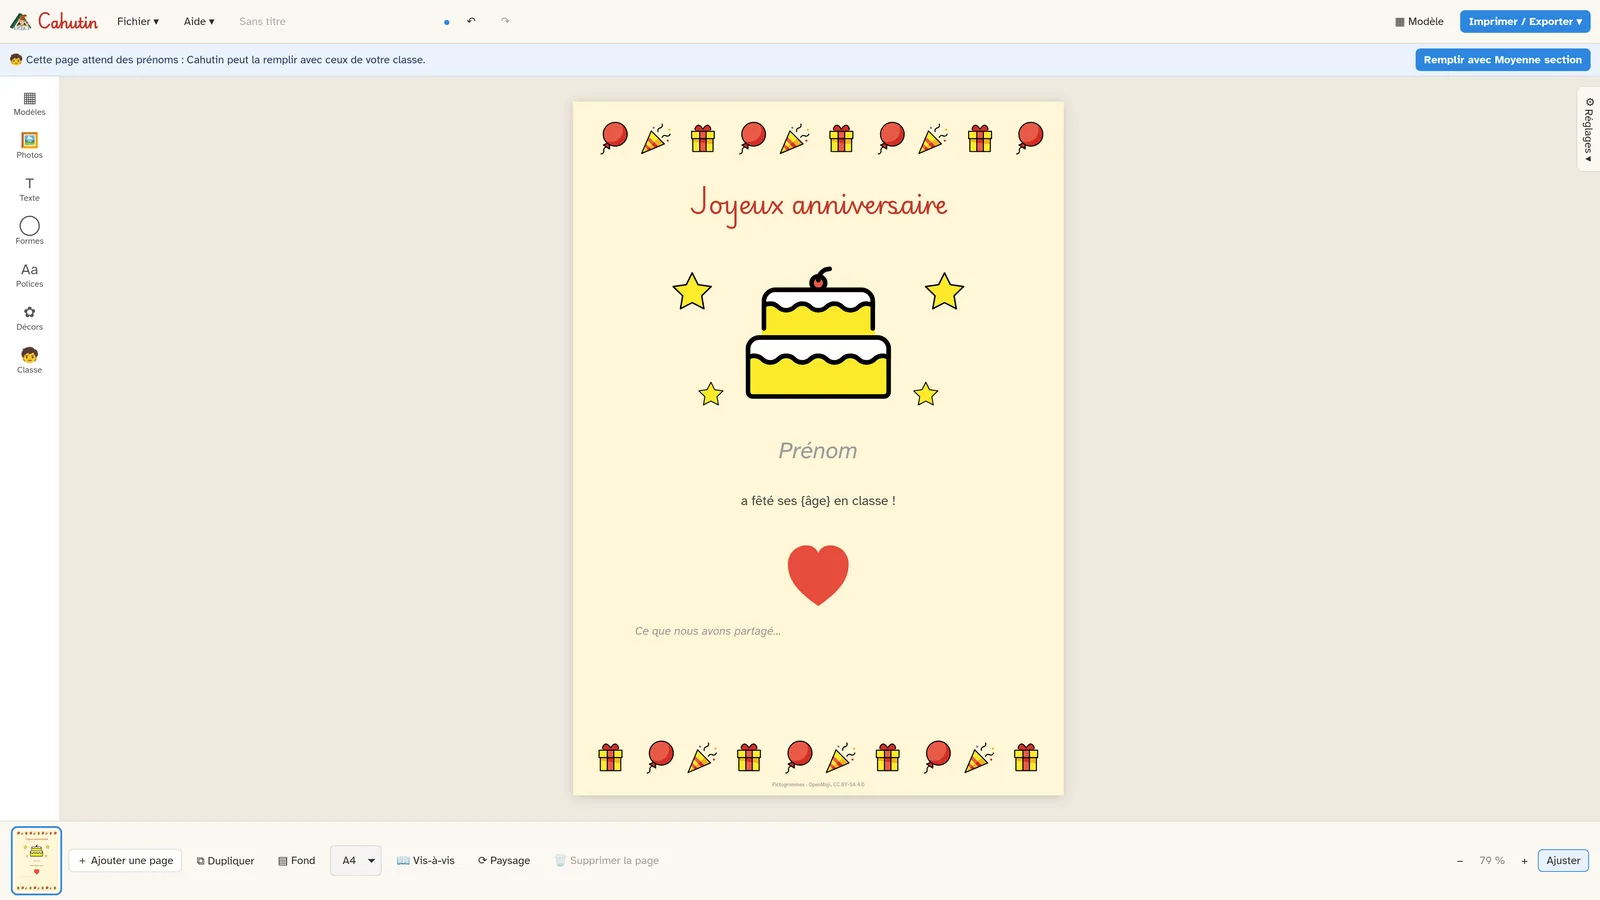
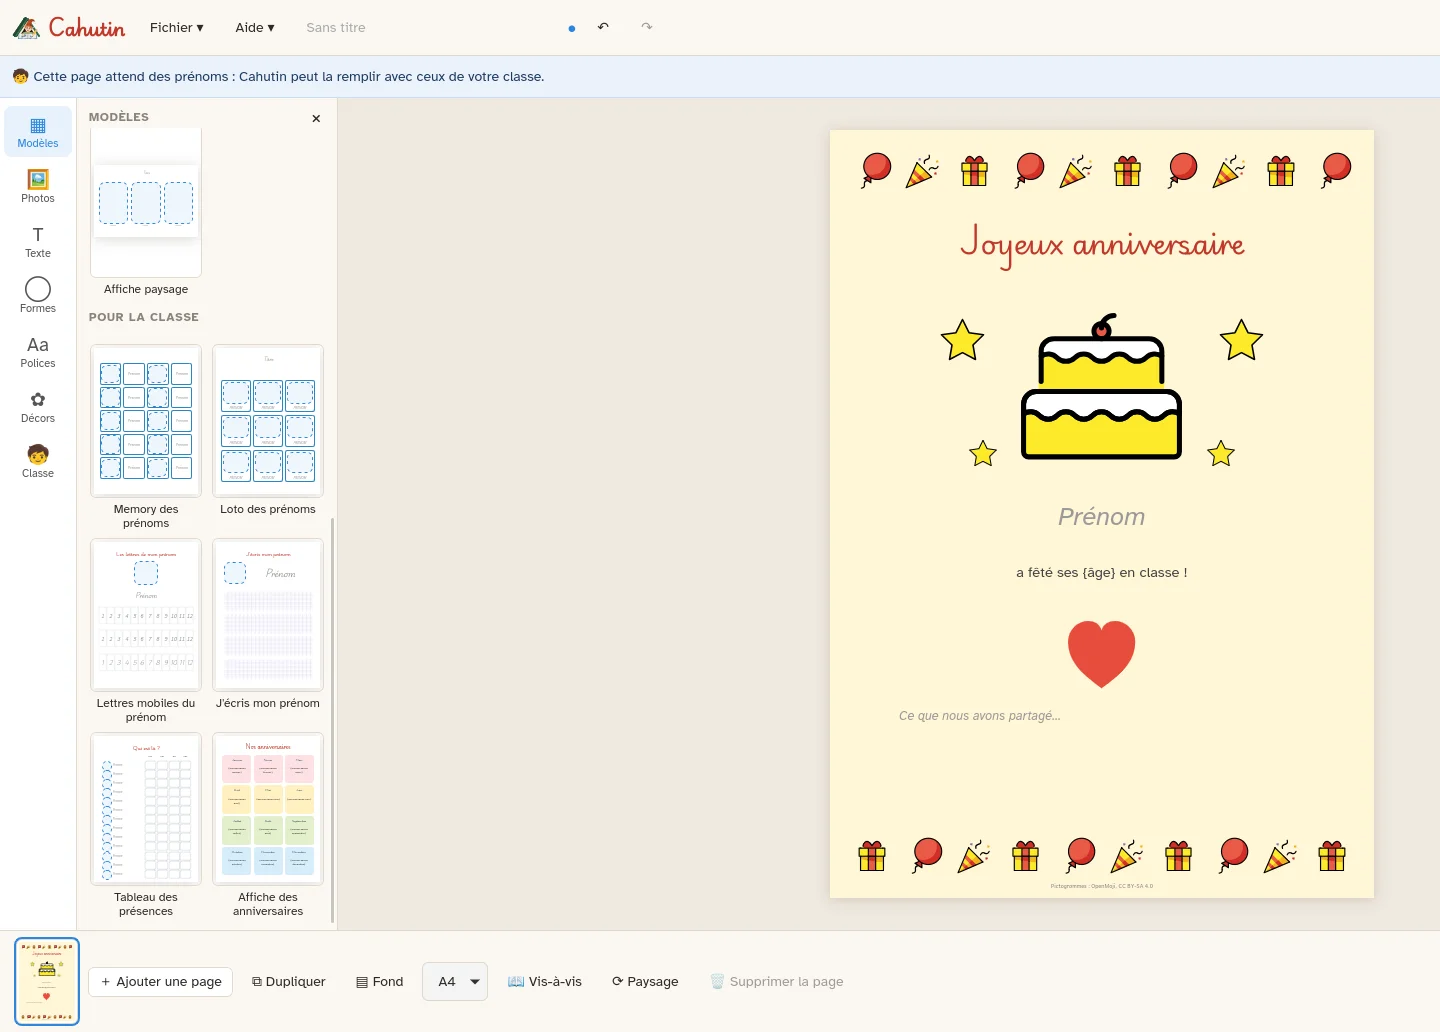
docs(site): app screenshots at a laptop scale; templates drawer fits landscape thumbnails

diff --git a/site/index.html b/site/index.html
@@ -55,7 +55,7 @@
   </div>
 
   <figure class="colle">
-    <img src="img/app-anniversaire.webp" width="1600" height="900" alt="L\'écran de Cahutin : la barre d\'outils à gauche (modèles, photos, texte, formes, polices, décors, classe), au centre la page « Joyeux anniversaire » avec son gâteau, ses ballons et le prénom à remplir, et en haut le bandeau qui propose de la remplir avec la classe.">
+    <img src="img/app-anniversaire.webp" width="1440" height="1032" alt="L'écran de Cahutin : à gauche les outils et le tiroir Modèles ouvert sur les modèles pour la classe (memory, loto, lettres mobiles, présences, anniversaires), au centre la page « Joyeux anniversaire » avec son gâteau, ses ballons et le prénom à remplir, en haut le bandeau qui propose de la remplir avec la classe.\">
   </figure>
 </header>
 
@@ -92,7 +92,7 @@
     <li><span class="pastille" aria-hidden="true">🖨</span><h3>Imprimer ou partager</h3>A5, A4 ou A3, une affiche A3 sur deux A4, des cartes en recto-verso ; PDF, ou fichier pour LibreOffice où tout reste modifiable. On peut aussi reprendre une fiche Word ou PDF existante.</li>
   </ul>
   <figure class="colle petite">
-    <img src="img/app-decors.webp" width="1600" height="900" loading="lazy" alt="Le panneau Décors ouvert sur la catégorie Émotions, à côté de la page « Le loto des émotions » : douze cartes avec un visage et son mot.">
+    <img src="img/app-decors.webp" width="1440" height="1032" loading="lazy" alt="Le panneau Décors ouvert sur la catégorie Émotions, à côté de la page « Le loto des émotions » : douze cartes avec un visage et son mot.">
   </figure>
 </section>
 

diff --git a/ui/src/components/drawers/TemplatesDrawer.svelte b/ui/src/components/drawers/TemplatesDrawer.svelte
@@ -11,7 +11,7 @@
   <div class="tpl">
     <button class="mini" title={fr.newPageFrom(t.name)} onclick={() => templates.addPage(t.id).catch((e) => (editor.notice = String(e)))}>
       {#if templates.previews[t.id]}
-        <PageView page={templates.previews[t.id]} doc={editor.doc} zoom={0.13} />
+        <PageView page={templates.previews[t.id]} doc={editor.doc} zoom={0.13 * Math.min(1, 210 / templates.previews[t.id].size.width_mm, 297 / templates.previews[t.id].size.height_mm)} />
       {/if}
     </button>
     <span class="name">{t.name}</span>
@@ -58,6 +58,7 @@
     overflow: hidden;
     display: flex;
     justify-content: center;
+    align-items: center;
   }
   .mini :global(.page) {
     pointer-events: none;
